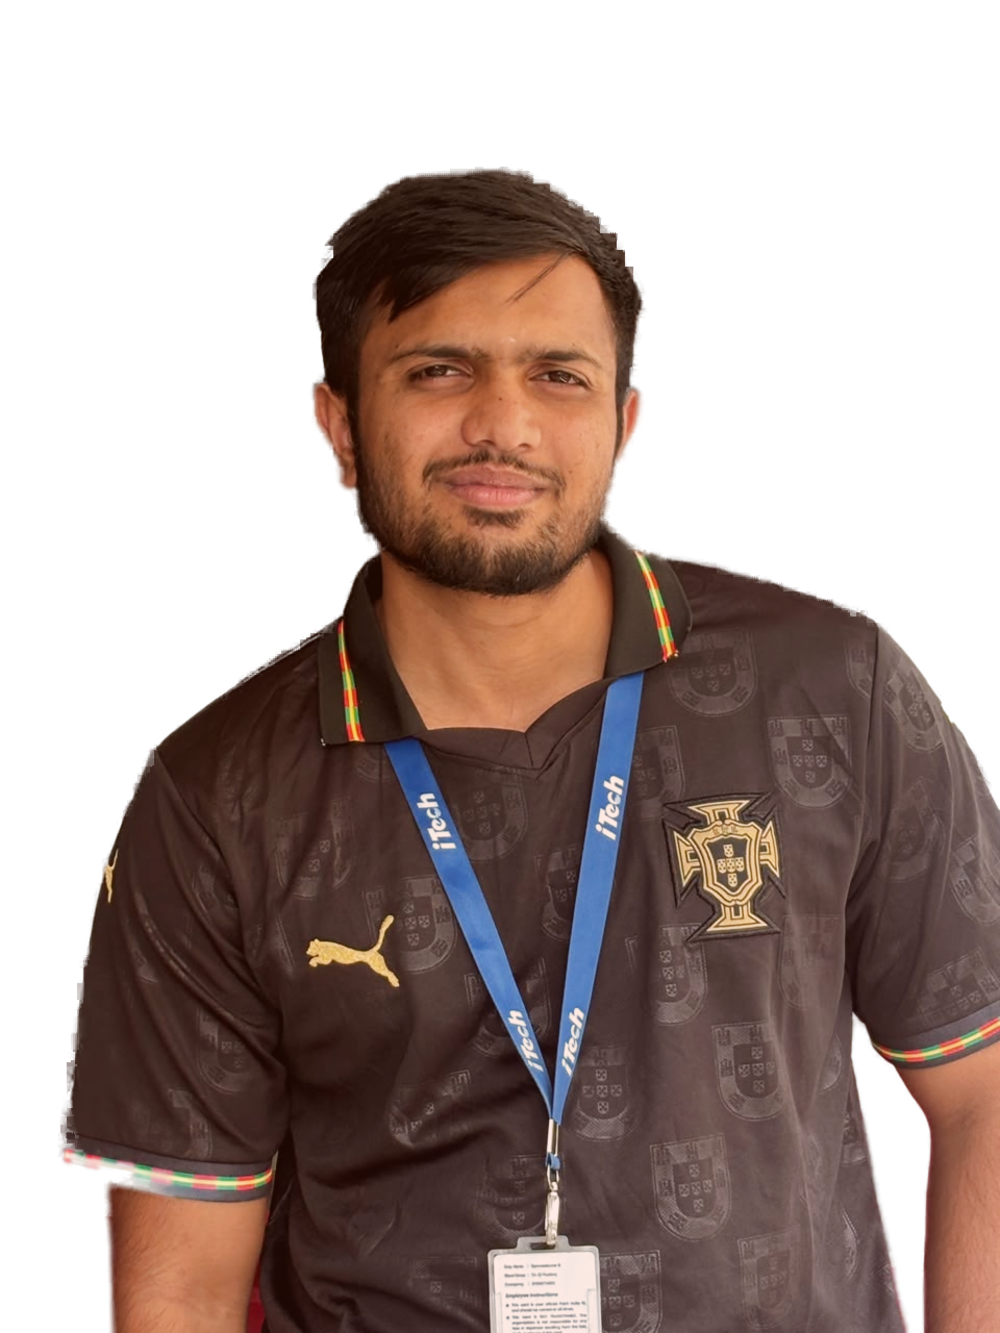
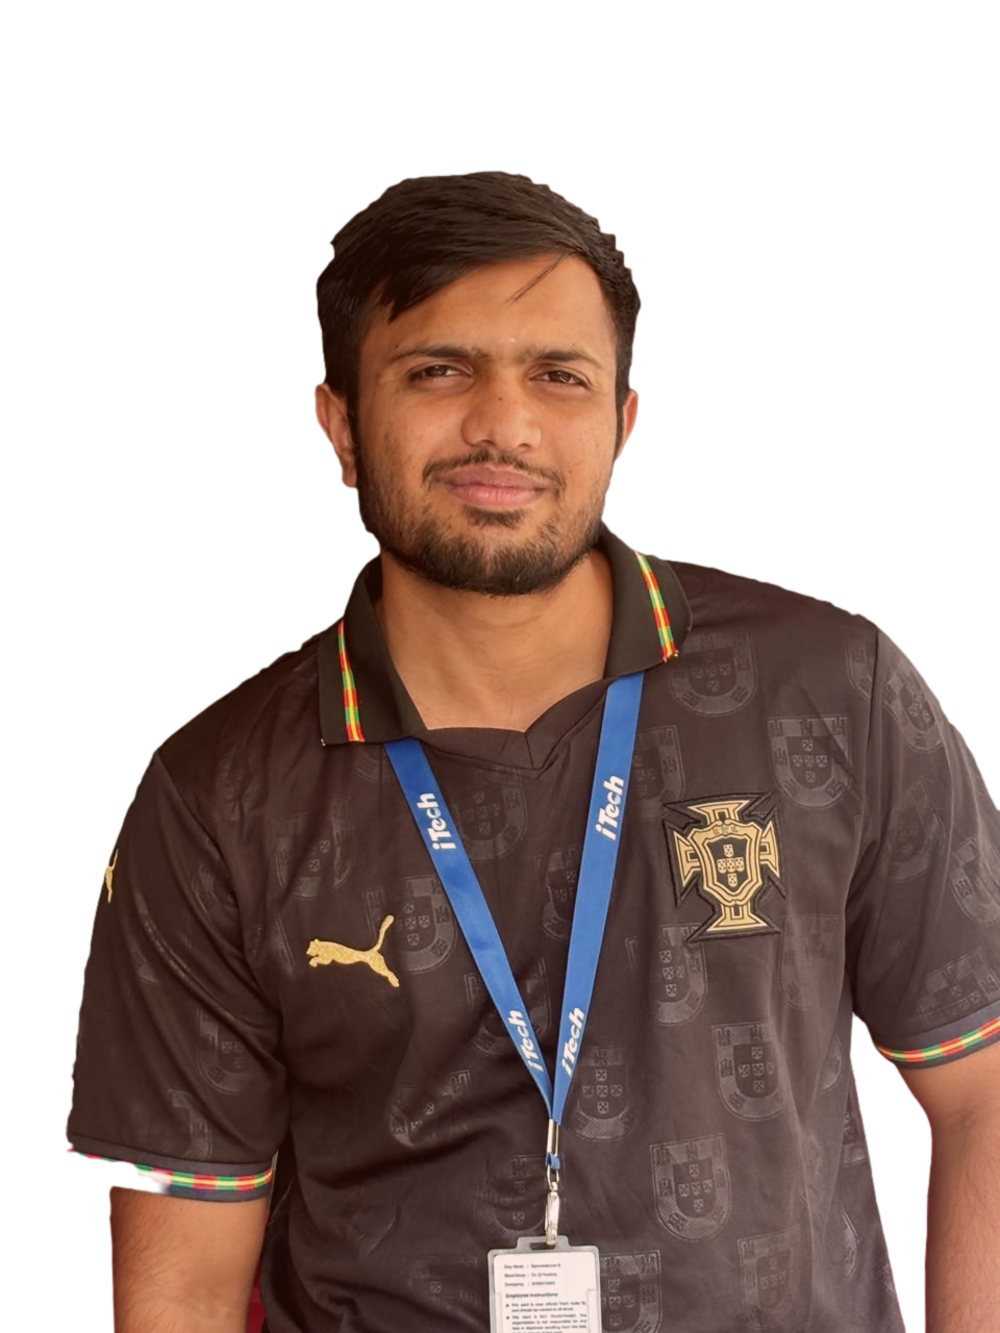
Add depth-parallax hero and fix portrait cutouts
Cutouts: refined the alpha masks (smooth, erode ~1.5px) to remove the
garage-coloured fringe that haloed against the orange, and reframed the
about tile to head-and-torso so it no longer crops through the hands.

Hero depth parallax: the portrait is now rendered in WebGL through a
depth map, so the face leads the shoulders as the cursor moves and
catches light from the depth gradient. Depth is 0 at the background
(never displaces) and 1 at the face (displaces most), which keeps the
silhouette anchored while the features travel.

The depth map is MiDaS body depth combined with an analytic facial
dome rather than raw model output — MiDaS-small cannot resolve a
face this flat-on, and running it on a head crop left a visible seam.
The composed map is smooth, seam-free and 9KB.

Falls back to the static <img> when WebGL, a fine pointer or motion
preference says no.

diff --git a/hero-depth.js b/hero-depth.js
@@ -1,0 +1,216 @@
+/* ============================================================
+   Hero depth parallax
+   ------------------------------------------------------------
+   Renders the cutout portrait through a depth map so the face
+   leads the shoulders as the cursor moves — a 2.5D head-turn.
+
+   Depth convention: 0 = background (never displaces), 1 = the
+   face (displaces most). That keeps the silhouette anchored
+   while the features travel.
+
+   Degrades to the plain <img> if WebGL or the textures fail.
+   ============================================================ */
+(() => {
+  'use strict';
+
+  const hero = document.querySelector('.hero');
+  const img = document.querySelector('.hero-portrait');
+  if (!hero || !img) return;
+  if (window.matchMedia('(prefers-reduced-motion: reduce)').matches) return;
+  if (!window.matchMedia('(pointer:fine)').matches) return;
+
+  const VERT = `
+    attribute vec2 aPos;
+    varying vec2 vUv;
+    void main(){
+      vUv = vec2(aPos.x * 0.5 + 0.5, 0.5 - aPos.y * 0.5);
+      gl_Position = vec4(aPos, 0.0, 1.0);
+    }`;
+
+  const FRAG = `
+    precision mediump float;
+    varying vec2 vUv;
+    uniform sampler2D uImage;
+    uniform sampler2D uDepth;
+    uniform vec2  uMouse;     // -1..1
+    uniform float uStrength;
+    uniform vec2  uTexel;
+
+    void main(){
+      // Iterate so near pixels don't smear: each pass re-reads depth at
+      // the corrected position and converges on the right sample point.
+      vec2 p = vUv;
+      for (int i = 0; i < 4; i++) {
+        float d = texture2D(uDepth, p).r;
+        p = vUv + uMouse * d * uStrength;
+      }
+
+      vec4 col = texture2D(uImage, p);
+
+      // Relight from the depth gradient so the face actually catches the
+      // light as the cursor moves, rather than just sliding around.
+      float dl = texture2D(uDepth, p - vec2(uTexel.x, 0.0)).r;
+      float dr = texture2D(uDepth, p + vec2(uTexel.x, 0.0)).r;
+      float du = texture2D(uDepth, p - vec2(0.0, uTexel.y)).r;
+      float dd = texture2D(uDepth, p + vec2(0.0, uTexel.y)).r;
+
+      vec3 n = normalize(vec3((dl - dr) * 2.0, (du - dd) * 2.0, 0.25));
+      vec3 L = normalize(vec3(uMouse.x, -uMouse.y, 0.75));
+      float diff = max(dot(n, L), 0.0);
+
+      col.rgb += col.rgb * diff * 0.42;
+      col.rgb += vec3(1.0, 0.55, 0.3) * pow(diff, 3.0) * 0.16 * col.a;
+
+      gl_FragColor = col;
+    }`;
+
+  const canvas = document.createElement('canvas');
+  canvas.className = 'hero-depth';
+  canvas.setAttribute('aria-hidden', 'true');
+
+  const gl =
+    canvas.getContext('webgl', { alpha: true, premultipliedAlpha: false, antialias: true }) ||
+    canvas.getContext('experimental-webgl', { alpha: true, premultipliedAlpha: false });
+  if (!gl) return;
+
+  const compile = (type, src) => {
+    const s = gl.createShader(type);
+    gl.shaderSource(s, src);
+    gl.compileShader(s);
+    if (!gl.getShaderParameter(s, gl.COMPILE_STATUS)) {
+      console.warn('hero-depth shader:', gl.getShaderInfoLog(s));
+      return null;
+    }
+    return s;
+  };
+
+  const vs = compile(gl.VERTEX_SHADER, VERT);
+  const fs = compile(gl.FRAGMENT_SHADER, FRAG);
+  if (!vs || !fs) return;
+
+  const prog = gl.createProgram();
+  gl.attachShader(prog, vs);
+  gl.attachShader(prog, fs);
+  gl.linkProgram(prog);
+  if (!gl.getProgramParameter(prog, gl.LINK_STATUS)) return;
+  gl.useProgram(prog);
+
+  const buf = gl.createBuffer();
+  gl.bindBuffer(gl.ARRAY_BUFFER, buf);
+  gl.bufferData(gl.ARRAY_BUFFER, new Float32Array([-1, -1, 3, -1, -1, 3]), gl.STATIC_DRAW);
+  const aPos = gl.getAttribLocation(prog, 'aPos');
+  gl.enableVertexAttribArray(aPos);
+  gl.vertexAttribPointer(aPos, 2, gl.FLOAT, false, 0, 0);
+
+  const uMouse = gl.getUniformLocation(prog, 'uMouse');
+  const uStrength = gl.getUniformLocation(prog, 'uStrength');
+  const uTexel = gl.getUniformLocation(prog, 'uTexel');
+
+  gl.enable(gl.BLEND);
+  gl.blendFunc(gl.SRC_ALPHA, gl.ONE_MINUS_SRC_ALPHA);
+
+  const makeTexture = (image, unit, name) => {
+    const t = gl.createTexture();
+    gl.activeTexture(gl.TEXTURE0 + unit);
+    gl.bindTexture(gl.TEXTURE_2D, t);
+    gl.texParameteri(gl.TEXTURE_2D, gl.TEXTURE_WRAP_S, gl.CLAMP_TO_EDGE);
+    gl.texParameteri(gl.TEXTURE_2D, gl.TEXTURE_WRAP_T, gl.CLAMP_TO_EDGE);
+    gl.texParameteri(gl.TEXTURE_2D, gl.TEXTURE_MIN_FILTER, gl.LINEAR);
+    gl.texParameteri(gl.TEXTURE_2D, gl.TEXTURE_MAG_FILTER, gl.LINEAR);
+    gl.texImage2D(gl.TEXTURE_2D, 0, gl.RGBA, gl.RGBA, gl.UNSIGNED_BYTE, image);
+    gl.uniform1i(gl.getUniformLocation(prog, name), unit);
+    return t;
+  };
+
+  const load = (src) =>
+    new Promise((res, rej) => {
+      const i = new Image();
+      i.crossOrigin = 'anonymous';
+      i.onload = () => res(i);
+      i.onerror = rej;
+      i.src = src;
+    });
+
+  // the <img> already has the colour plate decoded; reuse whichever source won
+  const colourSrc = img.currentSrc || img.src;
+
+  Promise.all([load(colourSrc), load('assets/hero-depth.jpg')])
+    .then(([colour, depth]) => {
+      makeTexture(colour, 0, 'uImage');
+      makeTexture(depth, 1, 'uDepth');
+      gl.uniform2f(uTexel, 1 / depth.naturalWidth, 1 / depth.naturalHeight);
+
+      // must share the <img>'s containing block or the two won't line up:
+      // the img resolves against .hero-inner, not .hero
+      const host = img.closest('.hero-inner') || hero;
+      host.appendChild(canvas);
+      hero.classList.add('webgl-on');
+
+      let w = 0;
+      let h = 0;
+      const resize = () => {
+        const r = canvas.getBoundingClientRect();
+        if (!r.width || !r.height) return;
+        const dpr = Math.min(window.devicePixelRatio || 1, 2);
+        const nw = Math.round(r.width * dpr);
+        const nh = Math.round(r.height * dpr);
+        if (nw === w && nh === h) return;
+        w = canvas.width = nw;
+        h = canvas.height = nh;
+        gl.viewport(0, 0, w, h);
+      };
+      resize();
+      window.addEventListener('resize', resize);
+
+      // target vs current, lerped — the head eases toward the cursor
+      let tx = 0;
+      let ty = 0;
+      let cx = 0;
+      let cy = 0;
+      const STRENGTH = 0.045;
+
+      hero.addEventListener('pointermove', (e) => {
+        const r = hero.getBoundingClientRect();
+        tx = ((e.clientX - r.left) / r.width - 0.5) * 2;
+        ty = ((e.clientY - r.top) / r.height - 0.5) * 2;
+      });
+      hero.addEventListener('pointerleave', () => {
+        tx = 0;
+        ty = 0;
+      });
+
+      let visible = true;
+      new IntersectionObserver(
+        ([e]) => {
+          visible = e.isIntersecting;
+        },
+        { rootMargin: '80px' }
+      ).observe(hero);
+
+      let raf;
+      const frame = () => {
+        raf = requestAnimationFrame(frame);
+        if (!visible) return;
+
+        cx += (tx - cx) * 0.07;
+        cy += (ty - cy) * 0.07;
+        resize();
+
+        gl.uniform2f(uMouse, cx, cy);
+        gl.uniform1f(uStrength, STRENGTH);
+        gl.clearColor(0, 0, 0, 0);
+        gl.clear(gl.COLOR_BUFFER_BIT);
+        gl.drawArrays(gl.TRIANGLES, 0, 3);
+      };
+      frame();
+
+      document.addEventListener('visibilitychange', () => {
+        if (document.hidden) cancelAnimationFrame(raf);
+        else frame();
+      });
+    })
+    .catch(() => {
+      /* textures unavailable — the plain <img> stays as-is */
+      hero.classList.remove('webgl-on');
+    });
+})();

diff --git a/styles.css b/styles.css
@@ -1185,3 +1185,30 @@ ul,dl{margin:0;padding:0;list-style:none}
 .viz .typing-dots i,.viz .warn,.viz .det.alert,.viz .opt.is-right{
   animation-play-state:var(--viz-play,running);
 }
+
+/* ============================================================
+   HERO DEPTH CANVAS
+   Occupies exactly the <img> box; the img stays as the fallback
+   and is only hidden once WebGL has actually rendered.
+   ============================================================ */
+.hero-depth{
+  position:absolute;z-index:2;
+  bottom:0;left:50%;transform:translateX(-50%);
+  height:min(88vh,860px);
+  aspect-ratio:1000/1333;
+  width:auto;
+  pointer-events:none;
+  filter:drop-shadow(0 26px 48px rgba(58,14,0,.34));
+  animation:portraitin 1.3s cubic-bezier(.22,1,.36,1) .1s backwards;
+}
+.hero.webgl-on .hero-portrait{visibility:hidden}
+
+/* the canvas does its own parallax in-shader — don't double it up */
+.hero.webgl-on.has-parallax .hero-portrait{transform:translateX(-50%)}
+
+@media (max-width:1080px){
+  .hero-depth{height:min(72vh,660px)}
+}
+@media (max-width:720px){
+  .hero-depth{height:min(58vh,520px);left:58%}
+}

diff --git a/index.html b/index.html
@@ -11,6 +11,7 @@
   <link href="https://fonts.googleapis.com/css2?family=Sora:wght@400;500;600&display=swap" rel="stylesheet">
   <link rel="stylesheet" href="styles.css">
   <script src="script.js" defer></script>
+  <script src="hero-depth.js" defer></script>
 </head>
 <body>
 <a class="skip-link" href="#main">Skip to content</a>
